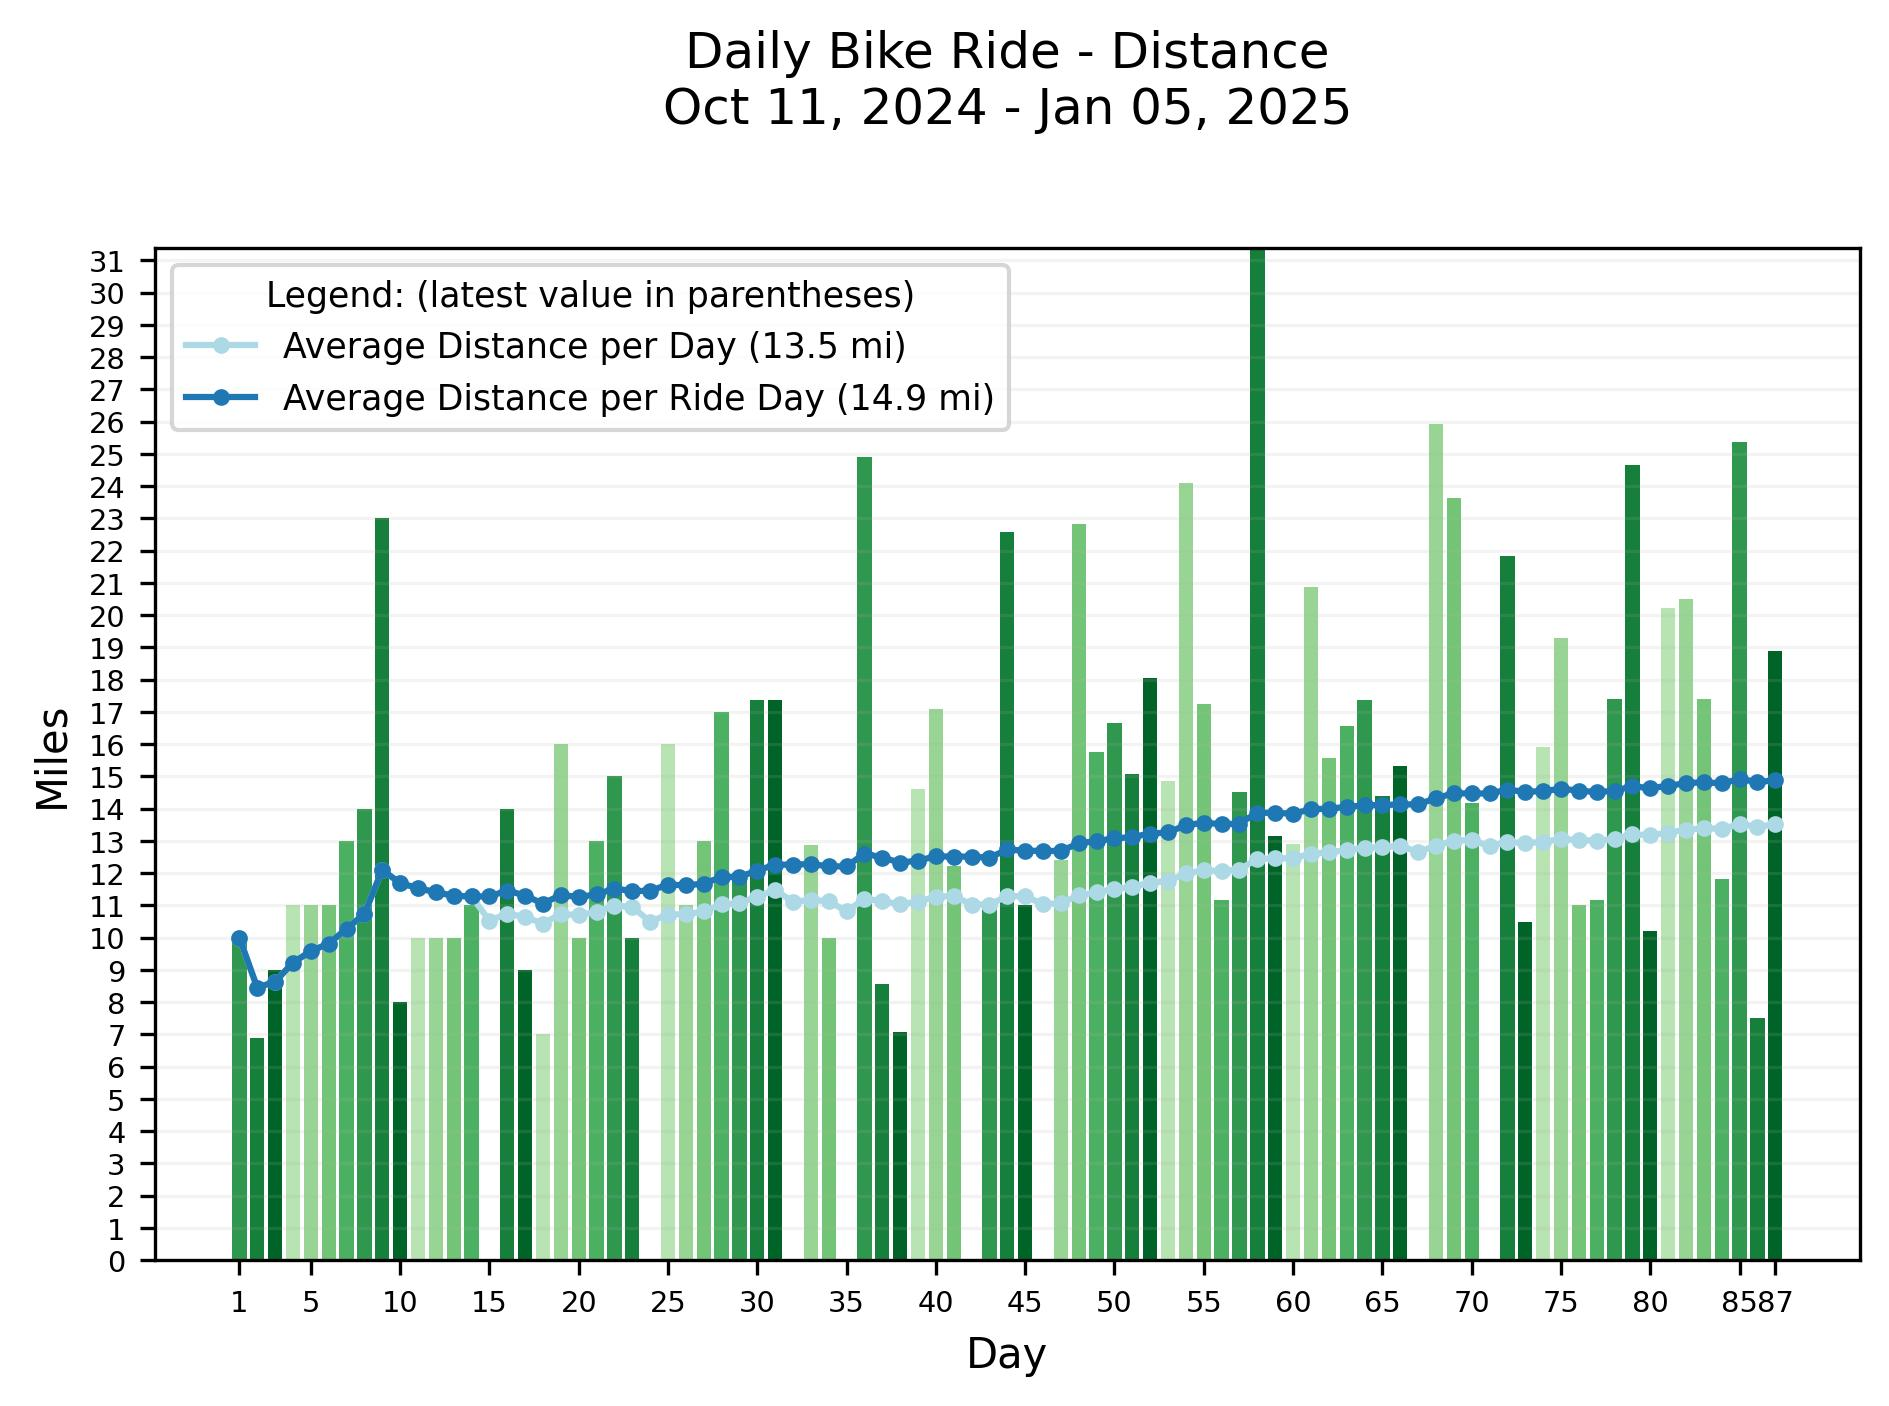
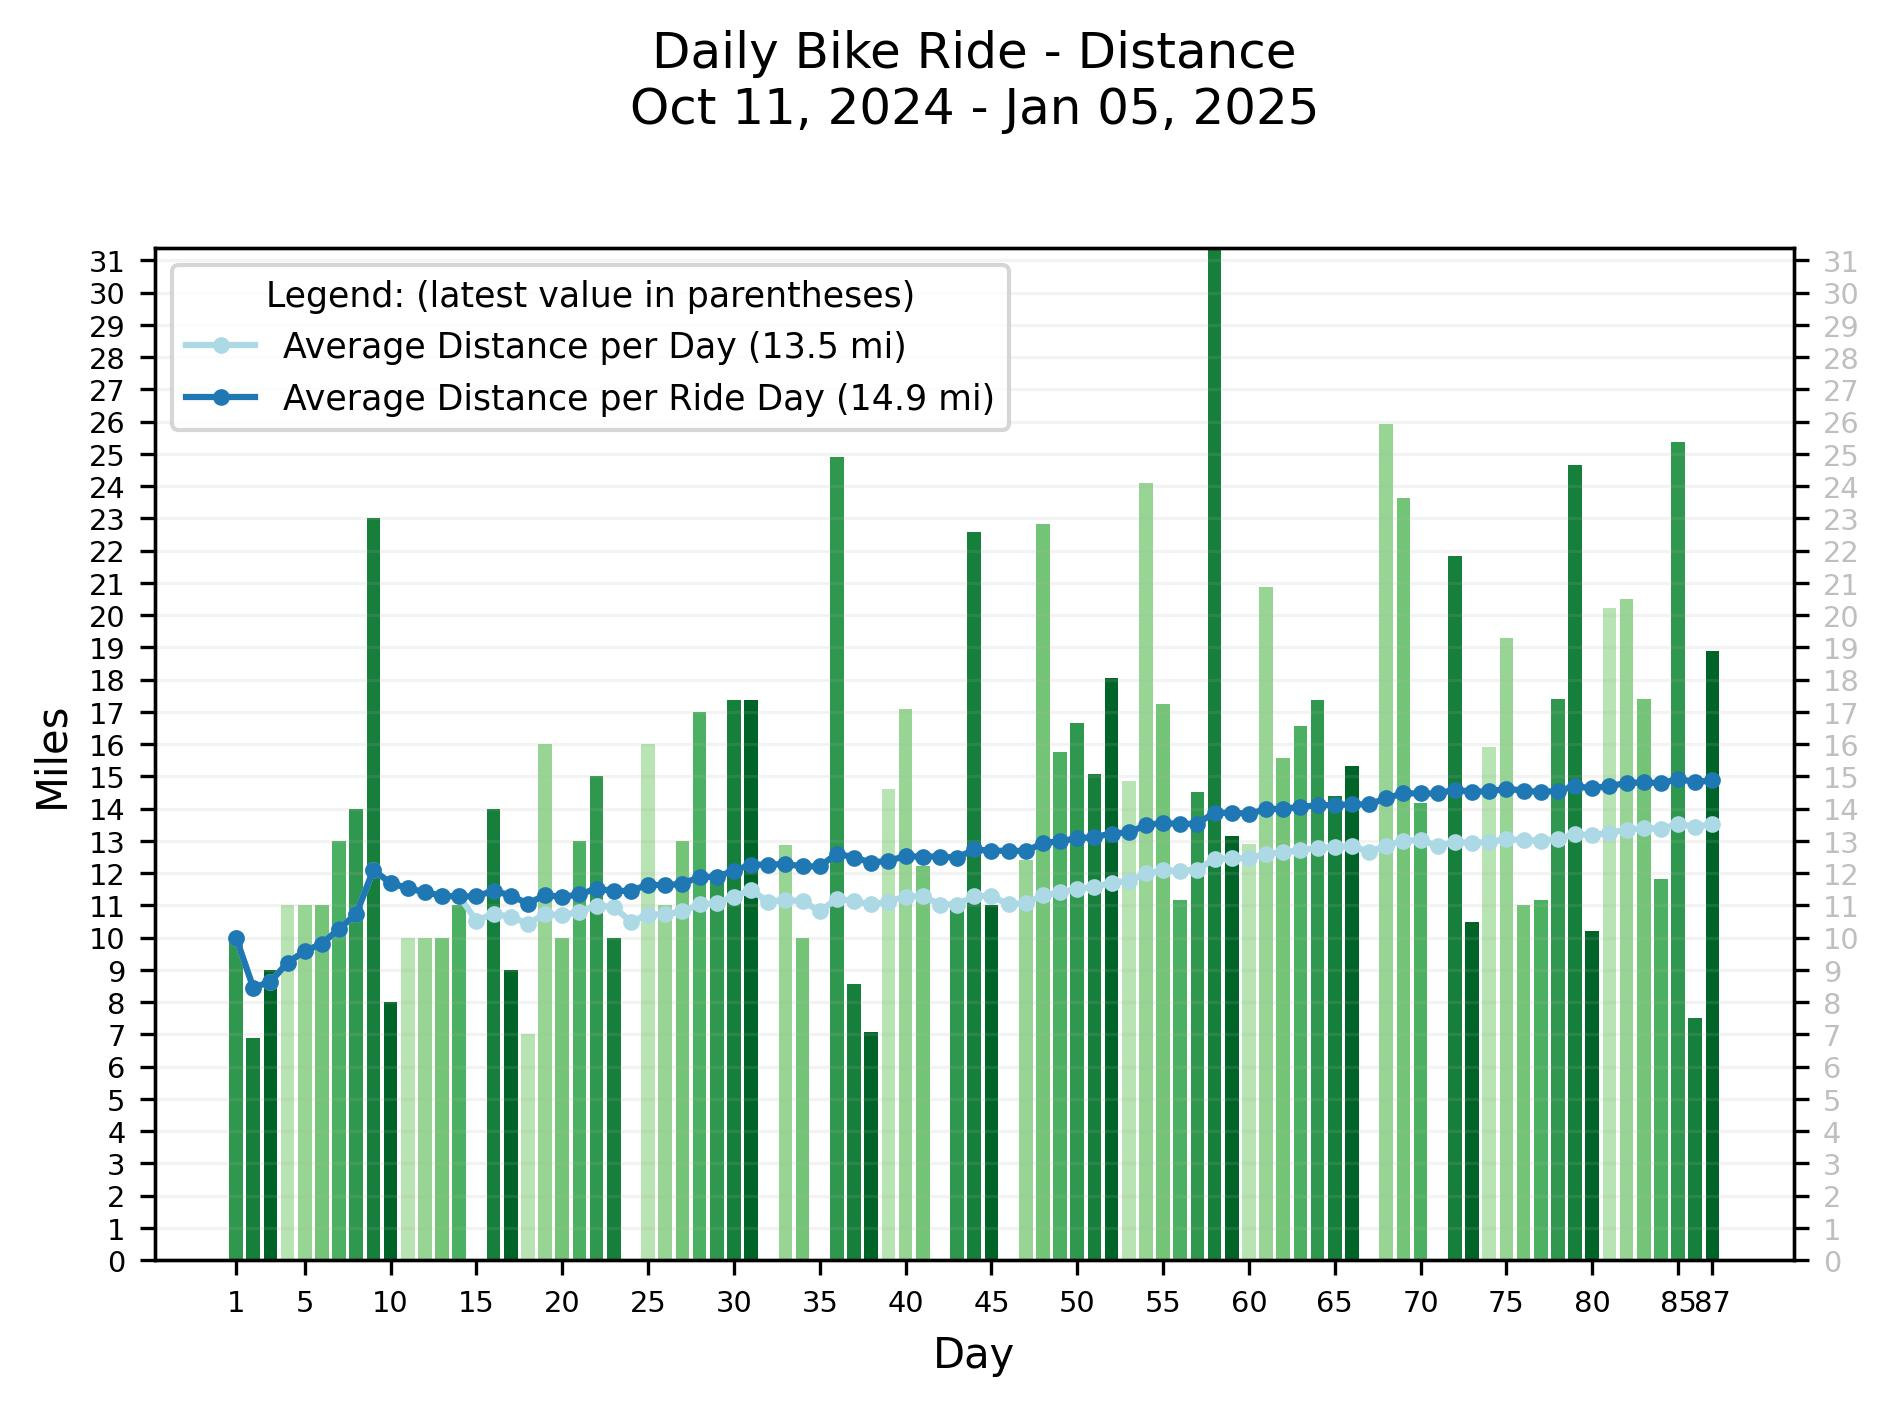
add scale to right of graphs

Changed region(s): [[0.1249, 0.1529, 0.9995, 0.9787], [0.3123, 0.0, 0.7184, 0.0917]]

diff --git a/src/biking/graph/base.py b/src/biking/graph/base.py
@@ -61,9 +61,7 @@ class Graph:
 
     def generate(self):
         fig, ax1 = plt.subplots()
-
         self.build(ax1)
-
         plt.tight_layout()
         plt.savefig(self.output_file, dpi=300, bbox_inches="tight")
 
@@ -73,46 +71,56 @@ class Graph:
         plt.xticks(tick_offsets, tick_labels, fontsize="x-small")
 
     def y_axis_ride_rate(self, ax1, for_combined_graph=False):
-        ride_rate_y = self.stats["data"]["ride_rate_per_day"]
-
         x = list(range(self.num_days))
+        ride_rate_y = self.stats["data"]["ride_rate_per_day"]
 
         color = "tab:red"
         color_arg = dict(color=color) if for_combined_graph else {}
+        bottom_limit = 0 if for_combined_graph else 70
+        scale = range(bottom_limit, 101, 5)
+
         ax2 = ax1.twinx() if for_combined_graph else ax1
         ax2.set_ylabel("Percentage", **color_arg)
-        bottom_limit = 0 if for_combined_graph else 70
-        plt.ylim(bottom_limit, max(ride_rate_y))
-        plt.yticks(range(bottom_limit, 101, 10), **color_arg, fontsize="x-small")
+        ax2.set_ylim(bottom_limit, max(ride_rate_y))
+        ax2.set_yticks(scale, labels=scale, **color_arg, fontsize="x-small")
 
         if not for_combined_graph:
             ax2.set_aspect(0.70)
+            #ax3 = ax1.twinx()
+            #ax3.set_ylim(bottom_limit, max(ride_rate_y))
+            #ax3.set_yticks(scale, labels=scale, **color_arg, fontsize="x-small", alpha=0.25)
+            #ax3.set_aspect(0.70)
 
         for y in range(80, 100, 5):
             ax2.axhline(y, **color_arg, linestyle=":", alpha=0.25)
 
         num_biked_days = self.stats["num_biked_days"]
         ride_rate = round(num_biked_days / self.num_days * 100, 2)
-        line, = plt.plot(x, ride_rate_y, color=color, marker="o", markersize=3)
+        line, = ax2.plot(x, ride_rate_y, color=color, marker="o", markersize=3)
         self.handles.append(line)
         self.labels.append(f"Ride Rate ({ride_rate:5.2f}%)")
 
     def y_axis_distance(self, ax1, for_combined_graph=False):
+        x = list(range(self.num_days))
         y = self.stats["data"]["distance_per_day"]
         avg_y = self.stats["data"]["avg_distance_per_day"]
         avg_ride_day_y = self.stats["data"]["avg_distance_per_ride_day"]
 
-        x = list(range(self.num_days))
+        color = plt.cm.Greens(0.8)
+        color_arg = dict(color=color) if for_combined_graph else {}
+        scale = range(0, int(max(y)) + 1, 1)
 
-        color_arg = dict(color=plt.cm.Greens(0.8)) if for_combined_graph else {}
         ax1.set_ylabel("Miles", **color_arg)
-        plt.ylim(0, max(y))
-        plt.yticks(range(0, int(max(y)) + 1, 1), **color_arg, fontsize="x-small")
+        ax1.set_ylim(0, max(y))
+        ax1.set_yticks(scale, labels=scale, **color_arg, fontsize="x-small")
+        ax1.grid(axis="y", linestyle="-", alpha=0.15, **color_arg)
 
-        plt.grid(axis="y", linestyle="-", alpha=0.15, **color_arg)
+        if not for_combined_graph:
+            ax2 = ax1.twinx()
+            ax2.set_ylim(0, max(y))
+            ax2.set_yticks(scale, labels=scale, **color_arg, fontsize="x-small", alpha=0.25)
 
         colors = self.get_colors()
-
         ax1.bar(x, y, color=colors)
 
         num_biked_days = self.stats["num_biked_days"]
@@ -129,21 +137,26 @@ class Graph:
         self.labels.append(f"Average Distance per Ride Day ({avg_ride_day_miles:0.1f} mi)")
 
     def y_axis_elevation(self, ax1):
+        x = list(range(self.num_days))
         y_gain = self.stats["data"]["elevation_gain_per_day"]
         y_high = self.stats["data"]["elevation_high_per_day"]
         y_low = self.stats["data"]["elevation_low_per_day"]
-        x = list(range(self.num_days))
 
         y_gain = [round(n) for n in y_gain]
         y_high = [round(n) for n in y_high]
         y_low = [round(n) for n in y_low]
 
-        ax1.set_ylabel("Feet")
         max_y = int(max(*y_gain, *y_high))
-        plt.ylim(0, max_y)
-        plt.yticks(range(0, max_y + 1, 100), fontsize="x-small")
+        scale = range(0, max_y + 1, 100)
 
-        plt.grid(axis="y", linestyle="-", alpha=0.15)
+        ax1.set_ylabel("Feet")
+        ax1.set_ylim(0, max_y)
+        ax1.set_yticks(scale, labels=scale, fontsize="x-small")
+        ax1.grid(axis="y", linestyle="-", alpha=0.15)
+
+        ax2 = ax1.twinx()
+        ax2.set_ylim(0, max_y)
+        ax2.set_yticks(scale, labels=scale, fontsize="x-small", alpha=0.25)
 
         colors = self.get_colors()
         ax1.bar(x, y_gain, color=colors)
@@ -164,15 +177,20 @@ class Graph:
         self.labels.append(f"Elevation High ({elevation_high:0.1f} ft)")
 
     def y_axis_speed(self, ax1):
+        x = list(range(self.num_days))
         y_avg = self.stats["data"]["avg_speed_per_day"]
         y_max = self.stats["data"]["max_speed_per_day"]
-        x = list(range(self.num_days))
+
+        scale = range(0, int(max(y_max)) + 1, 1)
 
         ax1.set_ylabel("Miles/Hour")
-        plt.ylim(0, max(y_max))
-        plt.yticks(range(0, int(max(y_max)) + 1, 1), fontsize="x-small")
+        ax1.set_ylim(0, max(y_max))
+        ax1.set_yticks(scale, labels=scale, fontsize="x-small")
+        ax1.grid(axis="y", linestyle="-", alpha=0.15)
 
-        plt.grid(axis="y", linestyle="-", alpha=0.15)
+        ax2 = ax1.twinx()
+        ax2.set_ylim(0, max(y_max))
+        ax2.set_yticks(scale, labels=scale, fontsize="x-small", alpha=0.25)
 
         colors = self.get_colors(True)
         ax1.vlines(x, ymin=y_avg, ymax=y_max, color=colors, linewidth=3)
